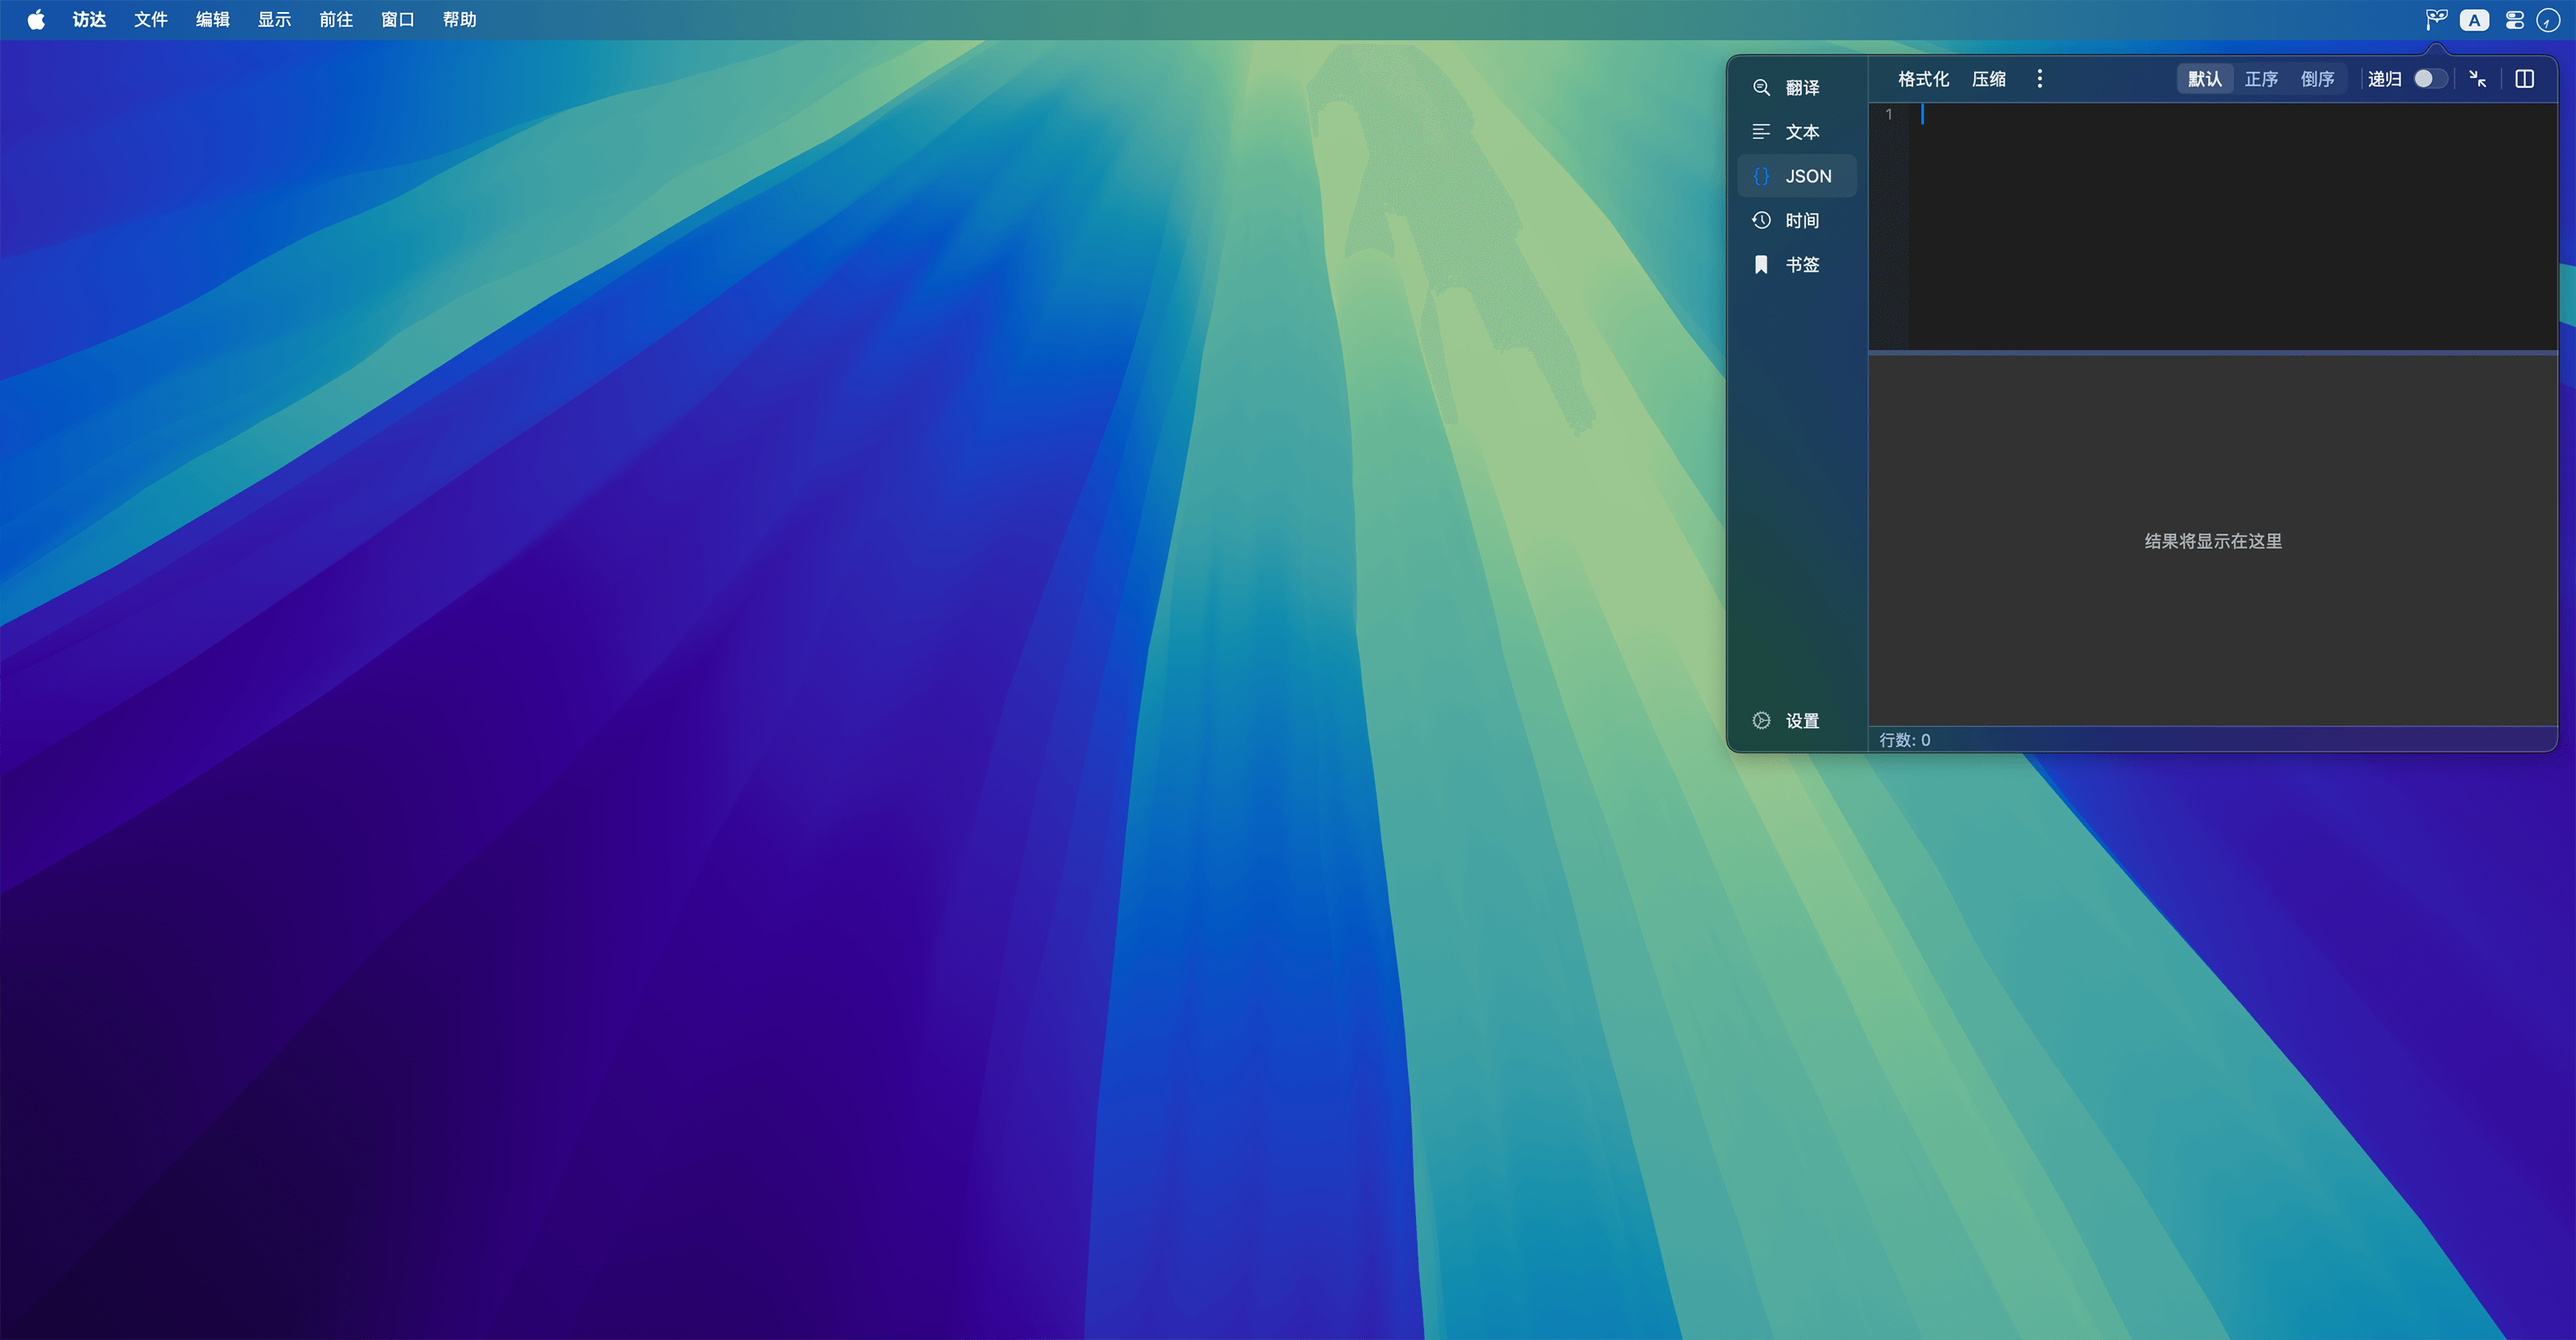
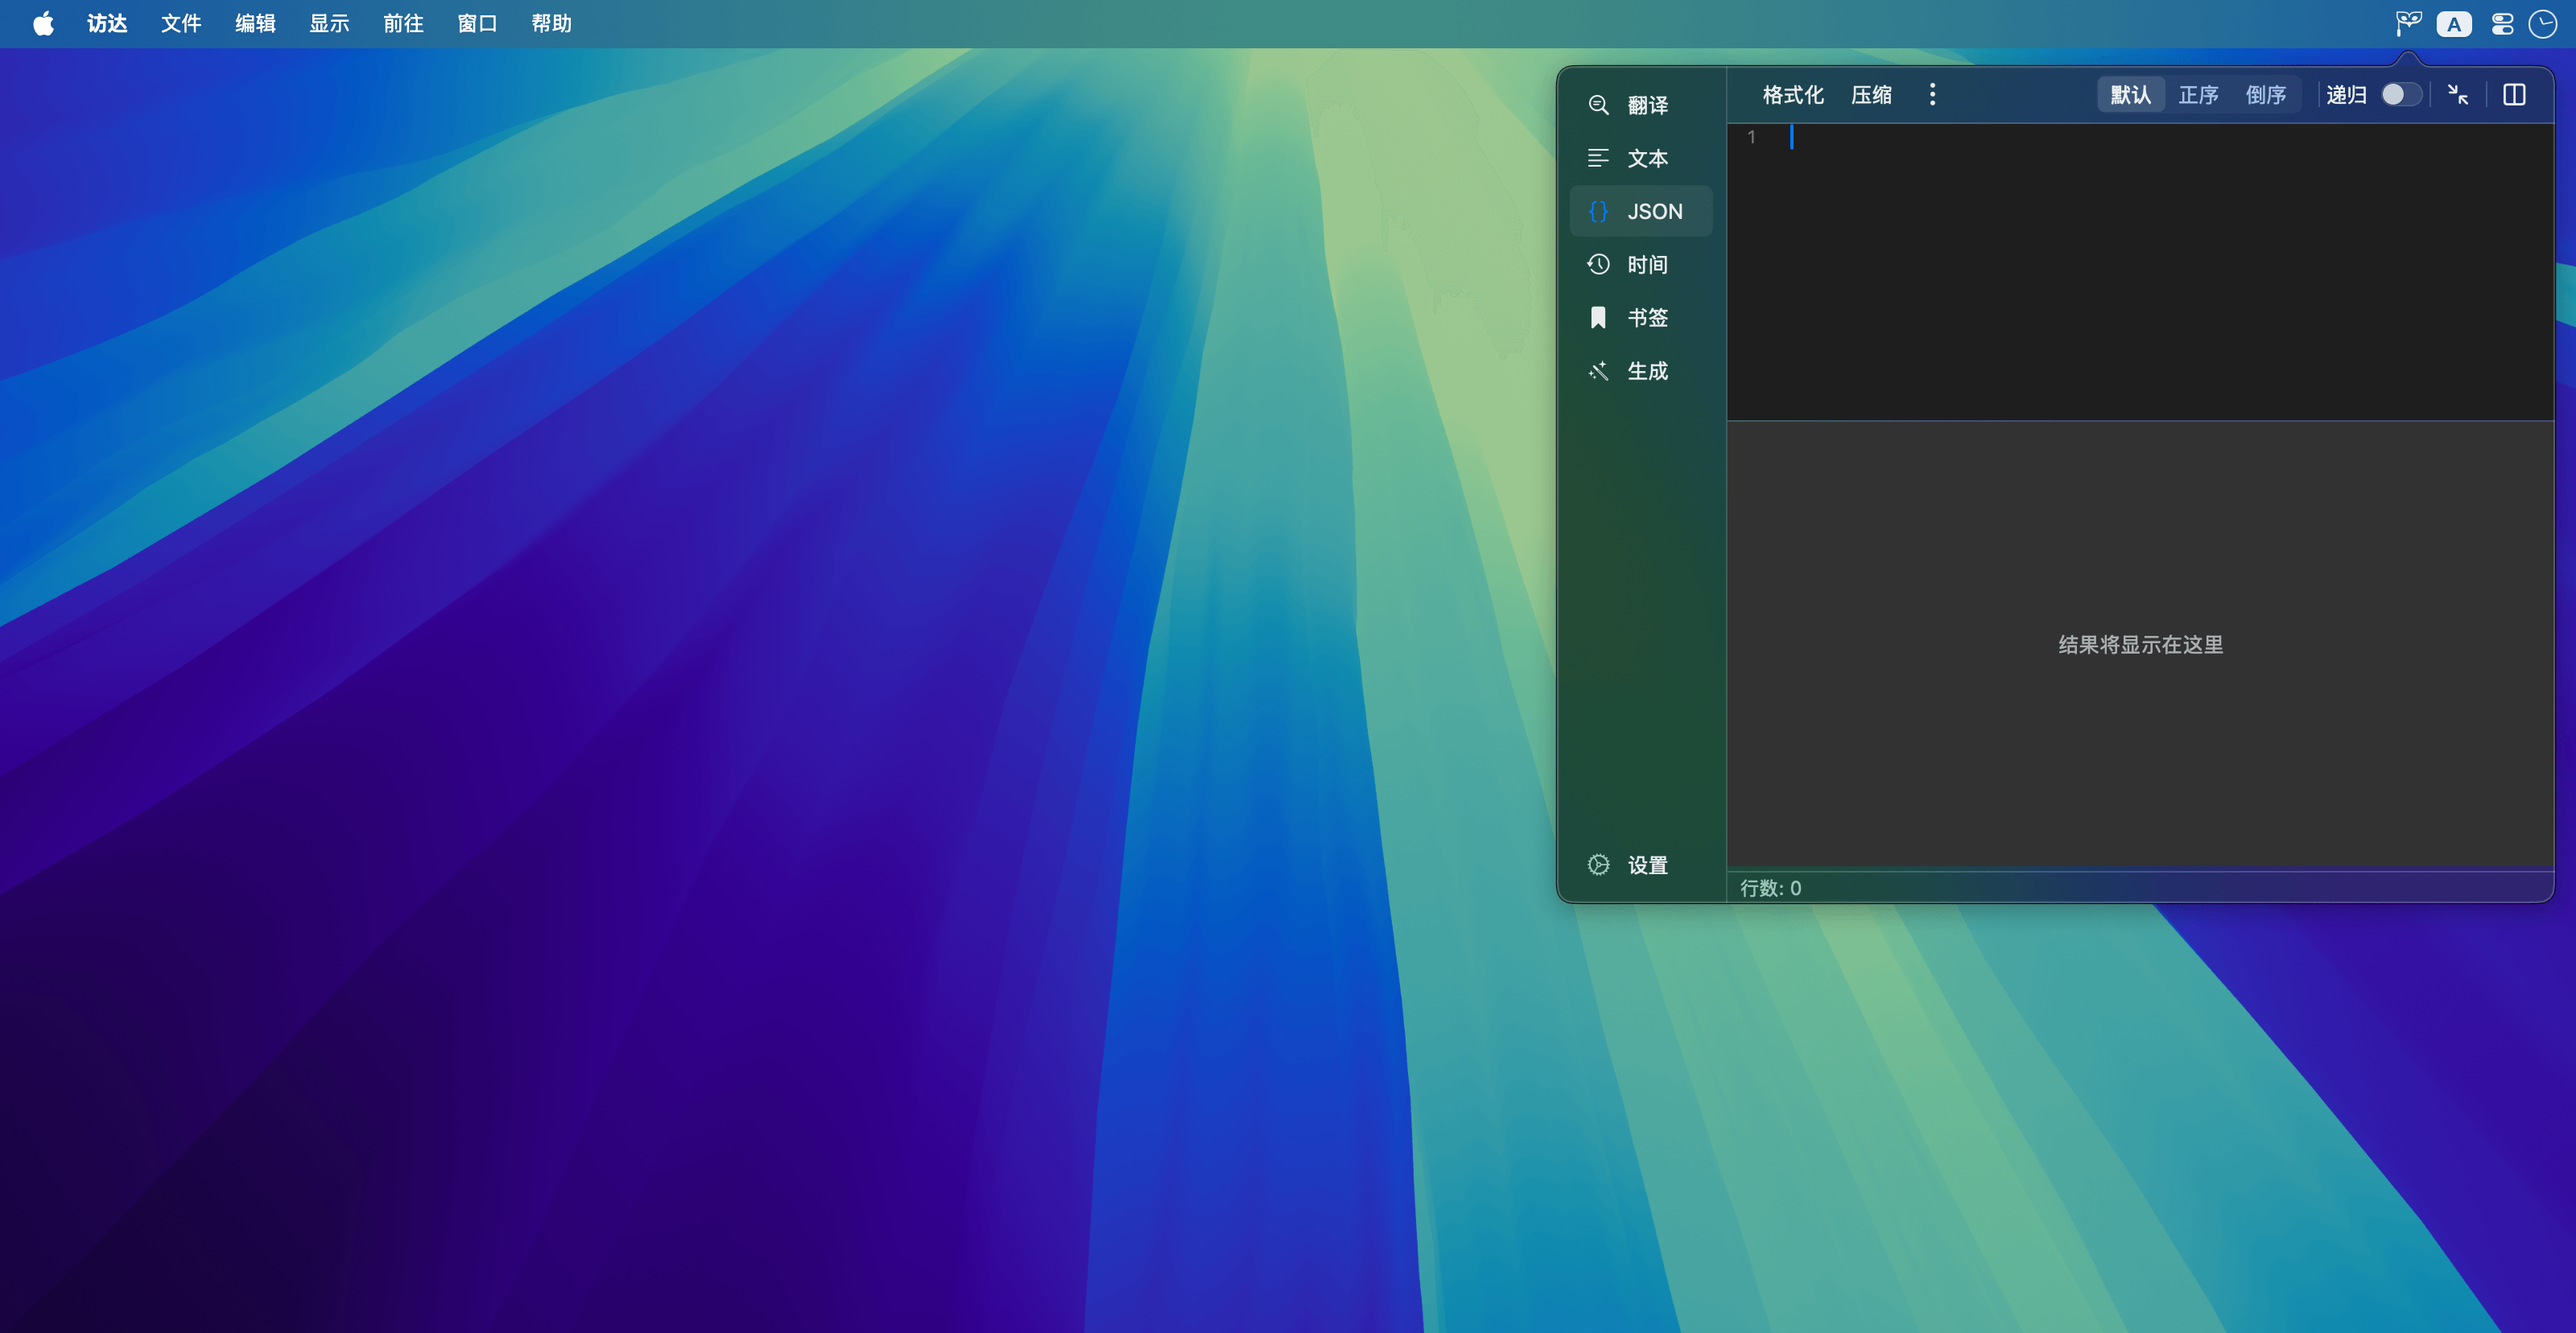
feat: 新增数据生成工具、文本分割合并及其他优化

diff --git a/README.md b/README.md
@@ -1,7 +1,7 @@
 <div align="center">
   <img src="./docs/icon.png" width="120" height="120" alt="Yota Icon" />
 
-  <h1>Yota v2.0</h1>
+  <h1>Yota v2.1</h1>
 
   <p>
     <strong>macOS 开发者生产力工具箱 | 原生 · 极速 · 智能</strong>
@@ -16,7 +16,7 @@
     <img src="https://img.shields.io/badge/Platform-macOS%2012.0%2B-blue?style=flat-square" alt="Platform" />
     <img src="https://img.shields.io/badge/Swift-5.0-orange?style=flat-square" alt="Swift" />
     <a href="https://github.com/chengu61/Yota/releases/latest">
-      <img src="https://img.shields.io/badge/Download-Latest%20Release-brightgreen?style=flat-square&logo=github" alt="Download" />
+      <img src="https://img.shields.io/github/v/release/chengu61/Yota?label=Download&style=flat-square&logo=github&color=brightgreen" alt="Download" />
     </a>
   </p>
 
@@ -31,9 +31,17 @@ Yota 是一款专为 macOS 开发者设计的轻量级工具箱。它常驻于 M
 
 ---
 
-## ✨ 全量功能指南
+### 生成工具 [NEW]
+强大的模拟数据构造中心，支持高度定制化的复杂数据生成：
+- **核心引擎**: 支持 `{{variable}}` 模板语法，满足高度定制化需求。
+- **高效录入**: 模板编辑器支持 `{{` 触发自动补全；支持将变量**快速插入**至光标当前位置。
+- **智能重构**: 修改变量名时模板引用 **自动同步**；支持 `cmd+点击` 实现模板与定义间的 **快速溯源**。
+- **数据源丰富**: 内置正则、逻辑脚本、Mock 数据及自定义列表，支持 String/Number/Date 等基础类型。
+- **多格式导出**: 支持 **JSON**、**CSV**、**SQL Insert** 等主流格式，并支持生成方案的本地持久化。
 
-### 1. JSON 深度处理中心
+<img src="./docs/generator.png" width="600" alt="Generator Tool Preview" />
+
+### JSON 处理工具
 支持从简单的格式化到复杂的架构分析全流程：
 - **核心操作**: 极速 **格式化/压缩**；支持 **Unicode 与中文** 互转。
 - **有序解析**: 自研解析引擎，支持自定义 **缩进 (2/4)** 与 **键值排序** (默认/正序/倒序)。
@@ -43,8 +51,9 @@ Yota 是一款专为 macOS 开发者设计的轻量级工具箱。它常驻于 M
 
 <img src="./docs/json.png" width="600" alt="JSON Tool Preview" />
 
-### 2. 多功能文本工具箱
+### 多功能文本工具箱
 集成了数十种日常开发高频使用的文本处理能力：
+- **分割与合并 [NEW]**: **智能双向转换**。单行按高频字符（逗号、分号等）自动分割，多行按空格一键合并。
 - **行级操作**: 排序（升序/降序/数字识别）、去重、去除空行/首尾空格。
 - **清洗与过滤**: 一键移除符号、清洗身份证号敏感行等。
 - **数学与统计**: 支持对数字行进行 **求和计算**；提供字数、字节数实时统计。
@@ -52,7 +61,7 @@ Yota 是一款专为 macOS 开发者设计的轻量级工具箱。它常驻于 M
 - **文本转换**: 中英文标点互转、简繁体互转、编码转换。
 - **编辑器**: 内置高性能代码高亮编辑器，支持原生查找替换与 **自动换行** 切换。
 
-### 3. 时间与日期分析
+### 时间与日期分析
 涵盖从时间戳转换到复杂推算的完整链路：
 - **全格式互转**: 秒/毫秒/微秒/纳秒时间戳与标准日期秒级互转。
 - **智能解析**: 识别 ISO8601、yyyyMMdd 等 40+ 种格式。
@@ -63,11 +72,11 @@ Yota 是一款专为 macOS 开发者设计的轻量级工具箱。它常驻于 M
 
 <img src="./docs/time.png" width="600" alt="Time Tool Preview" />
 
-### 4. 查词与深度翻译
+### 查词与深度翻译
 - **弹性检索**: 多节点轮询机制，确保请求的高度稳定性。
 - **智能融合**: 自动纠偏拼音，合并碎片化释义并保留完整词性说明。
 
-### 5. 原生快捷书签
+### 快捷书签
 代码片段与常用指令的私密管理中心：
 - **灵活组织**: 支持 **多标签管理**、标签自动补全 (Ghost Text) 以及 **拖拽重排序**。
 - **隐私模式**: 敏感内容支持 **高斯模糊** 遮盖，通过 `Cmd + 点击` 快速预览。

diff --git a/CHANGELOG.md b/CHANGELOG.md
@@ -1,5 +1,38 @@
 # 更新日志
 
+## [2.1.0] - 2026-02-10
+
+### ✨ 新增
+
+- **生成工具**:
+  - **核心引擎**: 引入强大的 Schema 驱动引擎，支持高度定制化的复杂数据生成。
+  - **模板驱动**: 通过 `{{variable}}` 语法完全自定义输出结构，灵活适配各种数据格式。
+    - **方案持久化**: 支持生成方案的本地保存、加载与快捷复制，复用更便捷。
+  - **数据源**:
+    - 内置基础类型（String/Number/Date），集成正则与逻辑引擎。
+    - 支持 Mock 数据及自定义列表，满足多样化测试场景。
+    - **多格式导出**: 支持 **JSON**、**CSV**、**SQL Insert**多种导出格式，无缝对接开发需求。
+  - **智能辅助**:
+    - **高效录入**: 模板编辑器支持 `{{` 触发自动补全；支持将变量**快速插入**至光标当前位置。
+    - **溯源跳转**: 支持 `cmd+点击` 模板中的变量**单向定位**至编辑列表，快速查看变量定义。
+    - **同步重构**: 修改变量名称时，模板内所有引用将**自动同步更新**，彻底告别手动查找替换。
+  - **全功能工作区**: 集成变量管理、实时预览及可调节分栏布局，打造统一的高效工作环境。
+- **文本工具：分割/合并**
+  - **智能双向转换**：自动识别输入状态，一键实现“单行分割”或“多行合并”的快速切换。
+  - **高频识别分割**：单行文本按出现频率最高的常见字符（如逗号、分号、空格等）智能分割，无需手动选择。
+  - **空格自动合并**：多行内容默认按空格一键合并为单行，保持排版整洁。
+  - **灵活自定义**：预设多种常用分隔符模板，并支持输入自定义字符进行处理。
+
+### 🚀 优化
+
+- **交互体验**:
+  - **侧边栏排序**: 工具栏现在也支持**拖拽排序**，可随时自由的调整工具顺序。
+- **剪贴板系统**:
+  - **性能重构**: 优化底层复制监控机制，彻底解决特定场景下的监控环路与性能抖动问题。
+- **设置中心**:
+  - **分类优化**: 重新整理了工具设置项，新增生成工具的相关配置项。
+  - **界面优化**: 优化页面布局与视觉样式。
+
 ## [2.0.0] - 2026-02-03
 
 ### ✨ 重大变更
